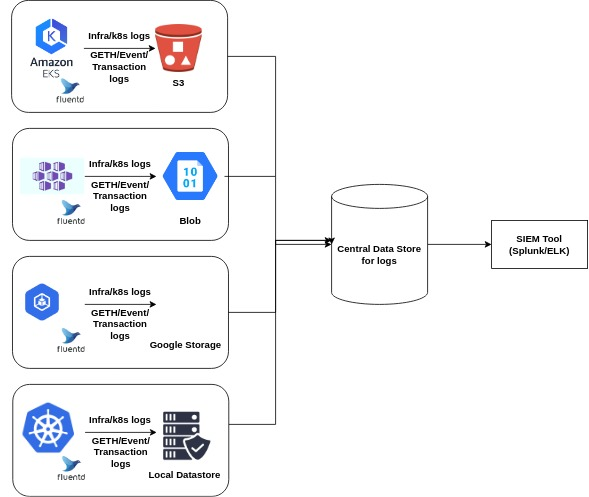
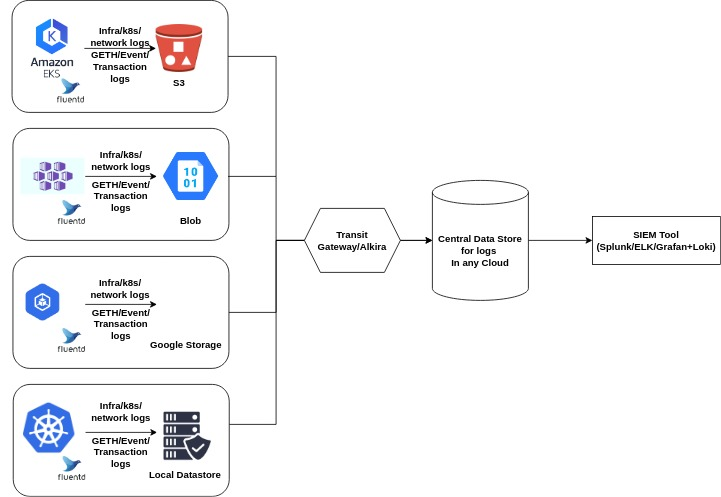
update ReadMe

diff --git a/README.md b/README.md
@@ -12,6 +12,7 @@ This repository includes goquorum quicksetup on a single Node VM as well as on K
 4. [DevSecOps](#devsecops)
 5. [GoQuorum BlockChain network on Kubernetes Cluster](#goquorum-blockchain-network-on-kubernetes-cluster)
 6. [Secure, Resilient & HA Infrastructure](#secure-resilient--ha-infrastructure)
+7. [Infosec and Monitoring(SIEM)](#Infosec-and-Monitoring)
 
 ## Quorum Blockchain Network
 
@@ -338,7 +339,7 @@ A private k8s cluster looks like below.
 ![Screenshot](blockchainSIEM.jpg)
 
 
-**This is a high level diagram for SIEM system for Hybrid Blockchain Network. Following are the consideration points while designing the SIEM system**
+**This is a high level diagram for SIEM system for Hybrid cloud Blockchain Network. Following are the consideration points while designing the SIEM system**
 - All the kubernetes cluster whether its managed or in on-prem it will have fluentd installed, and enable the cluster logging for core kubernetes master plane logs. This way we will be able to gather the k8s nodes logs as well as blockchain pod logs
 - The kubernetes node related logs should be directod in one folder while the blockchain event logs in another.
 - All the different cloud object storage logs should be transferred to a central location which will be source of SIEM tool.
